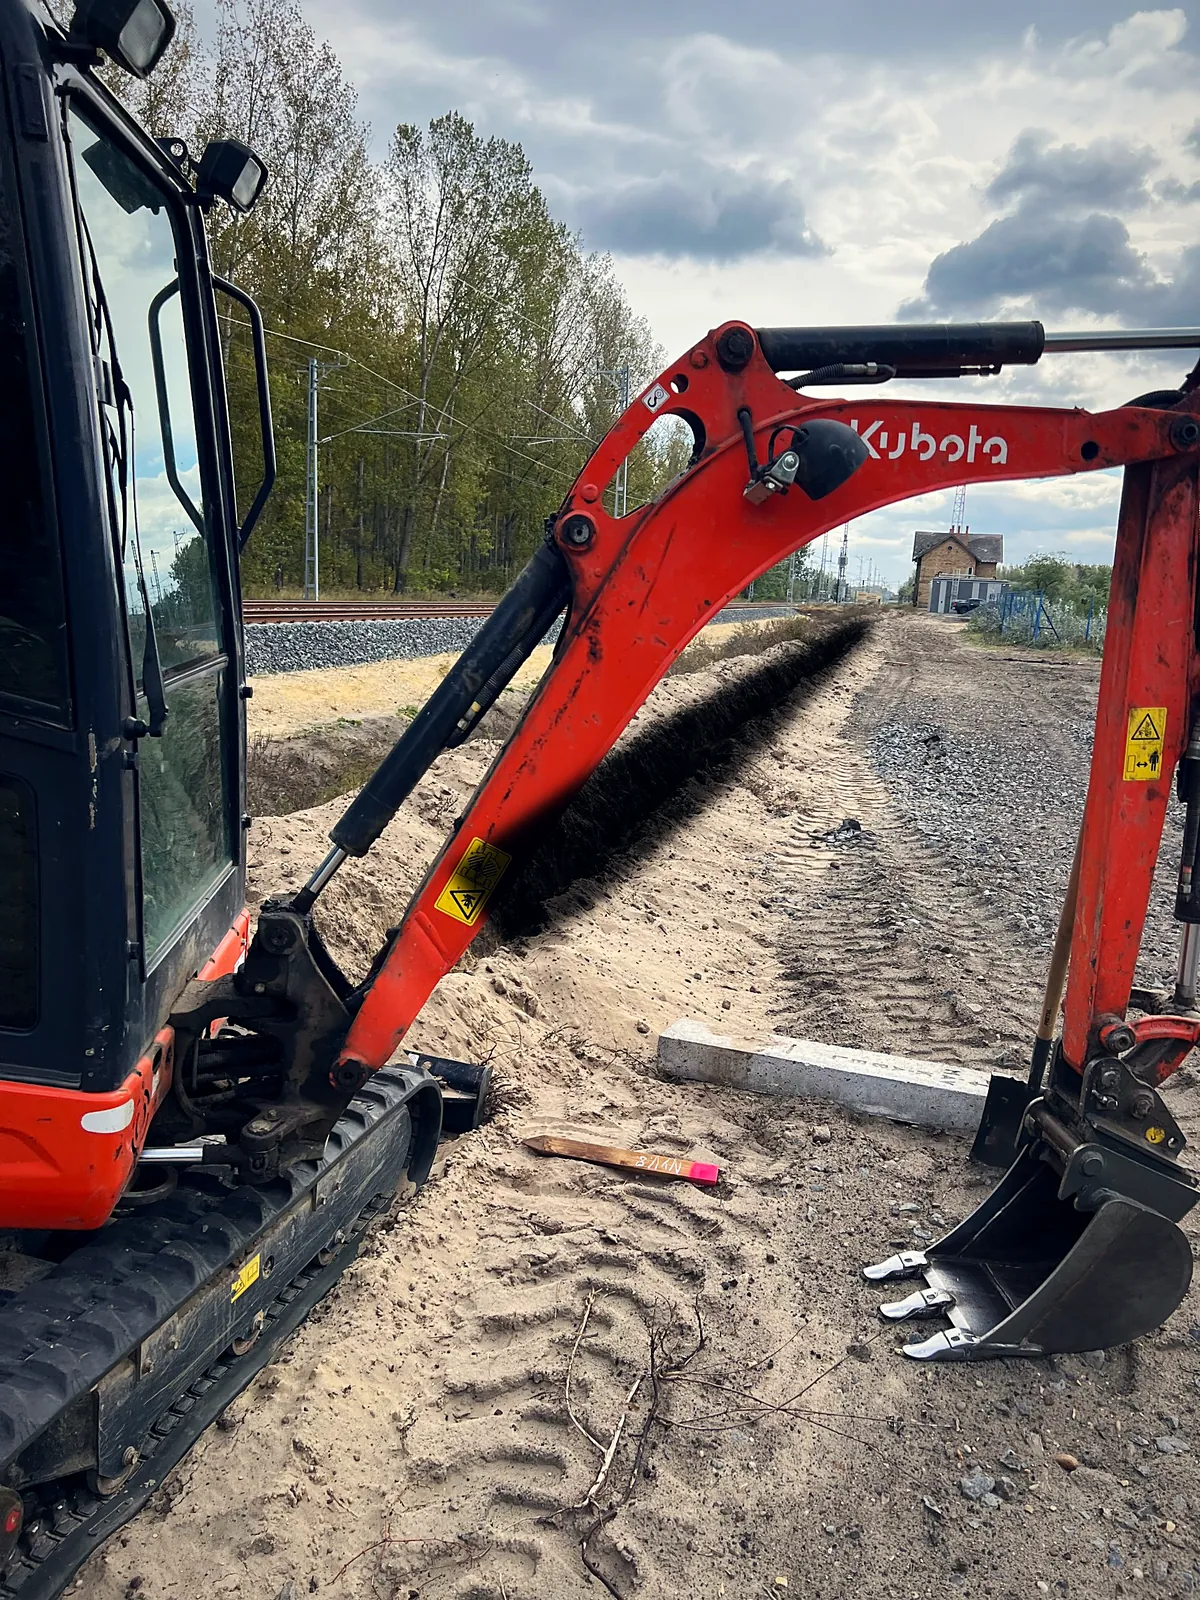
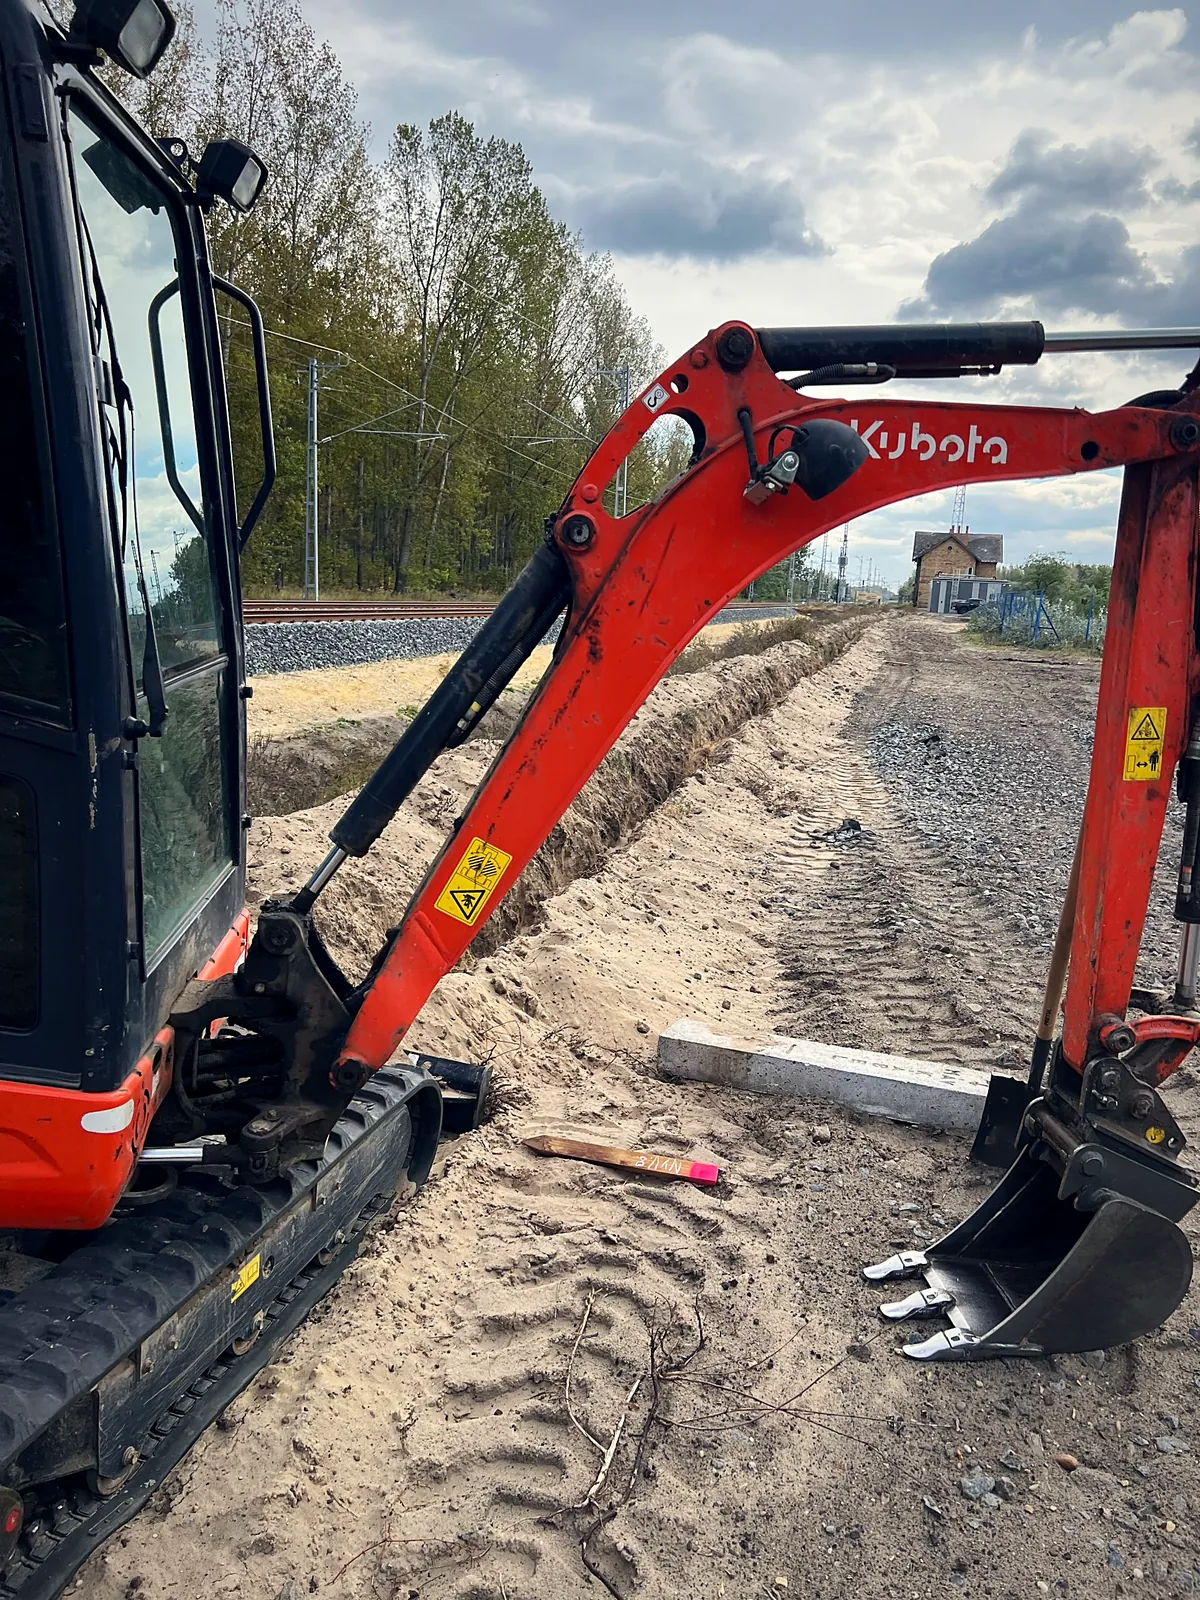
latvanyterv(kalocsa-zoltan): ügyfélkérés – gémkaros kép sötét folt nélkül, közműárok eredeti fotóval
Claude-Session: https://claude.ai/code/session_01VV8crhpwauy8tDvA7AFdp9

Changed region(s): [[0.37, 0.375, 0.74, 0.5938]]

diff --git a/public/latvanytervek/kalocsa-zoltan/index.html b/public/latvanytervek/kalocsa-zoltan/index.html
@@ -195,7 +195,7 @@
     <header class="sec__head">
       <p class="kicker"><span class="dot"></span>Referenciák</p>
       <h2 id="kiemelt-cim">Kiemelt munkák</h2>
-      <p class="sec__lead">Néhány kiemelt munka saját fotókkal – a fényviszonyok és a kontraszt szerkesztve, hogy az árkok mélysége jól látsszon. Kattints egy képre a nagyobb nézetért.</p>
+      <p class="sec__lead">Néhány kiemelt munka saját fotókkal – a legtöbb képen a fény és a kontraszt szerkesztve, hogy az árkok mélysége jól látsszon; a nagyításnál minden kép mellett jelöljük. Kattints egy képre a nagyobb nézetért.</p>
     </header>
 
     <div class="feats">
@@ -203,7 +203,7 @@
         <div class="feat__media"><div class="fgrid">
           <figure class="ftile"><button class="ftile__img" data-full="img/pirto-1-1200.webp?v=12" data-cap="Pirtó–Halas – terepalakítás a megállóhelynél" aria-label="Nagyítás: Pirtó–Halas – terepalakítás a megállóhelynél"><img src="img/pirto-1-720.webp?v=12" srcset="img/pirto-1-720.webp?v=12 720w, img/pirto-1-1200.webp?v=12 1200w" sizes="(max-width: 860px) 50vw, 340px" width="720" height="960" loading="lazy" decoding="async" alt="Kubota kisgép földtöltésen a Pirtói-szőlők megállóhely mellett"></button><figcaption>Terepalakítás a megállóhelynél</figcaption></figure>
           <figure class="ftile"><button class="ftile__img" data-full="img/pirto-2-1200.webp?v=12" data-cap="Pirtó–Halas – árok homokos talajban" aria-label="Nagyítás: Pirtó–Halas – árok homokos talajban"><img src="img/pirto-2-720.webp?v=12" srcset="img/pirto-2-720.webp?v=12 720w, img/pirto-2-1200.webp?v=12 1200w" sizes="(max-width: 860px) 50vw, 340px" width="720" height="960" loading="lazy" decoding="async" alt="Hosszú, egyenes árok homokos talajban a vasútvonal mellett"></button><figcaption>Árok homokos talajban</figcaption></figure>
-          <figure class="ftile"><button class="ftile__img" data-full="img/pirto-3-1200.webp?v=12" data-cap="Pirtó–Halas – a gép a nyomvonalon" aria-label="Nagyítás: Pirtó–Halas – a gép a nyomvonalon"><img src="img/pirto-3-720.webp?v=12" srcset="img/pirto-3-720.webp?v=12 720w, img/pirto-3-1200.webp?v=12 1200w" sizes="(max-width: 860px) 50vw, 340px" width="720" height="960" loading="lazy" decoding="async" alt="Kubota gémkar, mögötte a vasút mentén húzódó árok és az állomásépület"></button><figcaption>A gép a nyomvonalon</figcaption></figure>
+          <figure class="ftile"><button class="ftile__img" data-full="img/pirto-3-1200.webp?v=13" data-cap="Pirtó–Halas – a gép a nyomvonalon" aria-label="Nagyítás: Pirtó–Halas – a gép a nyomvonalon"><img src="img/pirto-3-720.webp?v=13" srcset="img/pirto-3-720.webp?v=13 720w, img/pirto-3-1200.webp?v=13 1200w" sizes="(max-width: 860px) 50vw, 340px" width="720" height="960" loading="lazy" decoding="async" alt="Kubota gémkar, mögötte a vasút mentén húzódó árok és az állomásépület"></button><figcaption>A gép a nyomvonalon</figcaption></figure>
           <figure class="ftile"><button class="ftile__img" data-full="img/pirto-4-1200.webp?v=12" data-cap="Pirtó–Halas – árok fás szakaszon" aria-label="Nagyítás: Pirtó–Halas – árok fás szakaszon"><img src="img/pirto-4-720.webp?v=12" srcset="img/pirto-4-720.webp?v=12 720w, img/pirto-4-1200.webp?v=12 1200w" sizes="(max-width: 860px) 50vw, 340px" width="720" height="960" loading="lazy" decoding="async" alt="Hosszú árok fás, bokros terepen a vasútvonal mellett"></button><figcaption>Fás, gyökeres szakasz</figcaption></figure>
         </div></div>
         <div class="feat__body">
@@ -237,7 +237,7 @@
 
       <article class="feat" data-feat="kozmuarok">
         <div class="feat__media"><div class="fgrid fgrid--one">
-          <figure class="ftile"><button class="ftile__img" data-full="img/kozmuarok-melyebb-1200.webp?v=12" data-cap="Közműárok-ásás" aria-label="Nagyítás: Közműárok-ásás"><img src="img/kozmuarok-melyebb-720.webp?v=12" srcset="img/kozmuarok-melyebb-720.webp?v=12 720w, img/kozmuarok-melyebb-1200.webp?v=12 1200w" sizes="(max-width: 860px) 100vw, 680px" width="1069" height="1900" loading="lazy" decoding="async" alt="Mély, egyenes falú közműárok homokos talajban"></button><figcaption>Egyenes falú árok homokos talajban</figcaption></figure>
+          <figure class="ftile"><button class="ftile__img" data-full="img/kozmuarok-1200.webp?v=13" data-cap="Közműárok-ásás" data-note="Eredeti fotó, szerkesztés nélkül" aria-label="Nagyítás: Közműárok-ásás"><img src="img/kozmuarok-720.webp?v=13" srcset="img/kozmuarok-720.webp?v=13 720w, img/kozmuarok-1200.webp?v=13 1200w" sizes="(max-width: 860px) 100vw, 680px" width="1069" height="1900" loading="lazy" decoding="async" alt="Egyenes falú közműárok homokos talajban, háttérben kotró-rakodó és raklapok"></button><figcaption>Egyenes falú árok homokos talajban</figcaption></figure>
         </div></div>
         <div class="feat__body">
           <p class="kicker"><span class="dot"></span>Kiemelt munka · 03</p>
@@ -490,6 +490,6 @@
 
 <script src="js/gsap.min.js" defer></script>
 <script src="js/ScrollTrigger.min.js" defer></script>
-<script src="kalocsa.js?v=36" defer></script>
+<script src="kalocsa.js?v=37" defer></script>
 </body>
 </html>

diff --git a/public/latvanytervek/kalocsa-zoltan/kalocsa.js b/public/latvanytervek/kalocsa-zoltan/kalocsa.js
@@ -122,10 +122,10 @@
 
   /* ---------- LIGHTBOX (a képlista a HTML-ből épül: [data-full] + [data-cap]) ---------- */
   const LB = [];
-  $$('[data-full]').forEach(el => { if (!LB.some(x => x[0] === el.dataset.full)) LB.push([el.dataset.full, el.dataset.cap || '']); });
+  $$('[data-full]').forEach(el => { if (!LB.some(x => x[0] === el.dataset.full)) LB.push([el.dataset.full, el.dataset.cap || '', el.dataset.note || 'Saját munkafotó – fény és kontraszt szerkesztve']); });
   const lb = $('#lb'), lbImg = $('img', lb), lbCap = $('figcaption', lb);
   let cur = 0, last = null;
-  const show = i => { cur = (i + LB.length) % LB.length; lbImg.src = LB[cur][0]; lbImg.alt = LB[cur][1]; lbCap.textContent = `${String(cur + 1).padStart(2, '0')} · ${LB[cur][1]}`; lbCap.dataset.note = 'Saját munkafotó – fény és kontraszt szerkesztve'; };
+  const show = i => { cur = (i + LB.length) % LB.length; lbImg.src = LB[cur][0]; lbImg.alt = LB[cur][1]; lbCap.textContent = `${String(cur + 1).padStart(2, '0')} · ${LB[cur][1]}`; lbCap.dataset.note = LB[cur][2]; };
   const open = i => { last = d.activeElement; show(i); lb.hidden = false; d.body.style.overflow = 'hidden'; $('.lb__x', lb).focus(); track('portfolio_view', { via: 'lightbox', image: i + 1 }); };
   const close = () => { lb.hidden = true; d.body.style.overflow = ''; last && last.focus(); };
   d.addEventListener('click', e => {

diff --git a/public/latvanytervek/kalocsa-zoltan/ATADAS.md b/public/latvanytervek/kalocsa-zoltan/ATADAS.md
@@ -3,6 +3,10 @@
 **Élő látványterv:** https://daekon-ship.github.io/daekon/latvanytervek/kalocsa-zoltan/ (noindex)
 **Állapot (2026.10.22., 10. kör):** ügyfélnek bemutatható látványterv. Az éles működéshez szükséges integrációk (űrlapküldés, mérés) előkészítve, de **nincsenek bekapcsolva** (lásd G).
 
+## Ügyfélkérés (2026.10.23.)
+1. „A gép a nyomvonalon” (pirto-3): az árokmélyítés sötét foltot hagyott a gémkar mellett → ezen a képen nincs árokmélyítés, csak az egységes színezés.
+2. Közműárok-ásás: Zoltán kérésére az **eredeti, szerkesztetlen** fotó (`img/kozmuarok-*.webp`); a nagyításnál „Eredeti fotó, szerkesztés nélkül” felirat. A `kozmuarok-melyebb-*` fájlok nincsenek használatban.
+
 ## Csak „Kiemelt munkák” (2026.10.22., ügyfélkérés)
 Zoltán kérése: ne legyen „Munkáim” (úgy hat, mintha csak ennyit dolgozott volna). A fülek és a „Munkáim” kártyarács törölve; egyetlen szakasz maradt „Kiemelt munkák” címmel (`#kiemelt-munkak`): 01 Pirtó–Halas (4 fotó), 02 Előtte–utána, 03 Közműárok, 04 Tuskóeltávolítás, 05 Kisgép munka közben (Kubota KX019-4, „Megkérdezem, befér-e” gombbal). Menü, nyitókép-gomb és lábléc: „Kiemelt munkák”.
 
